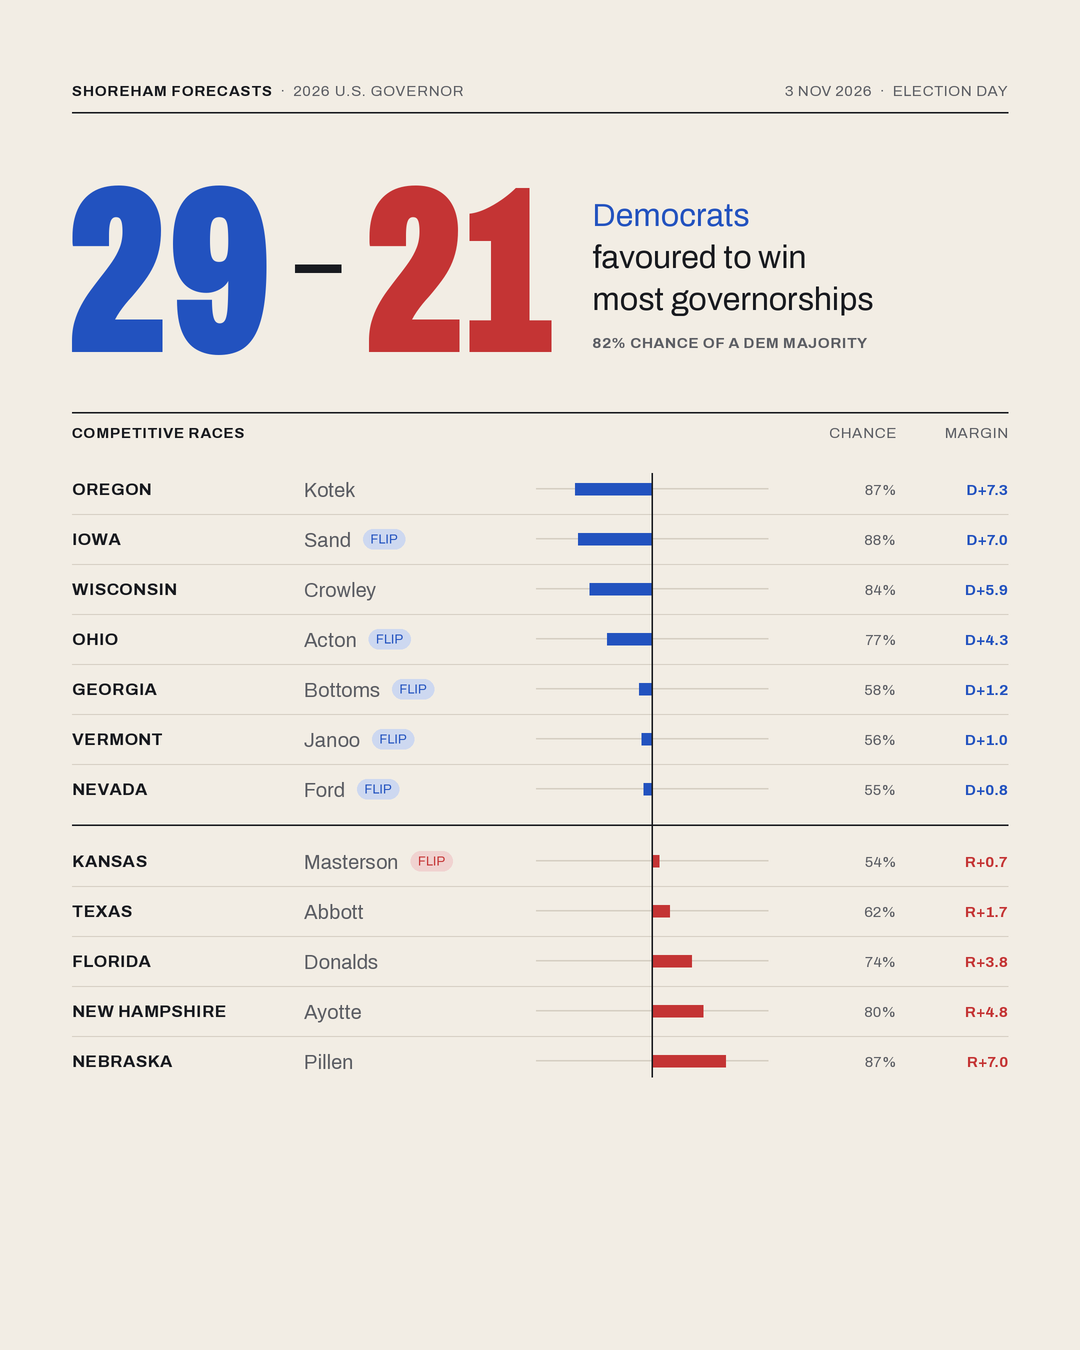
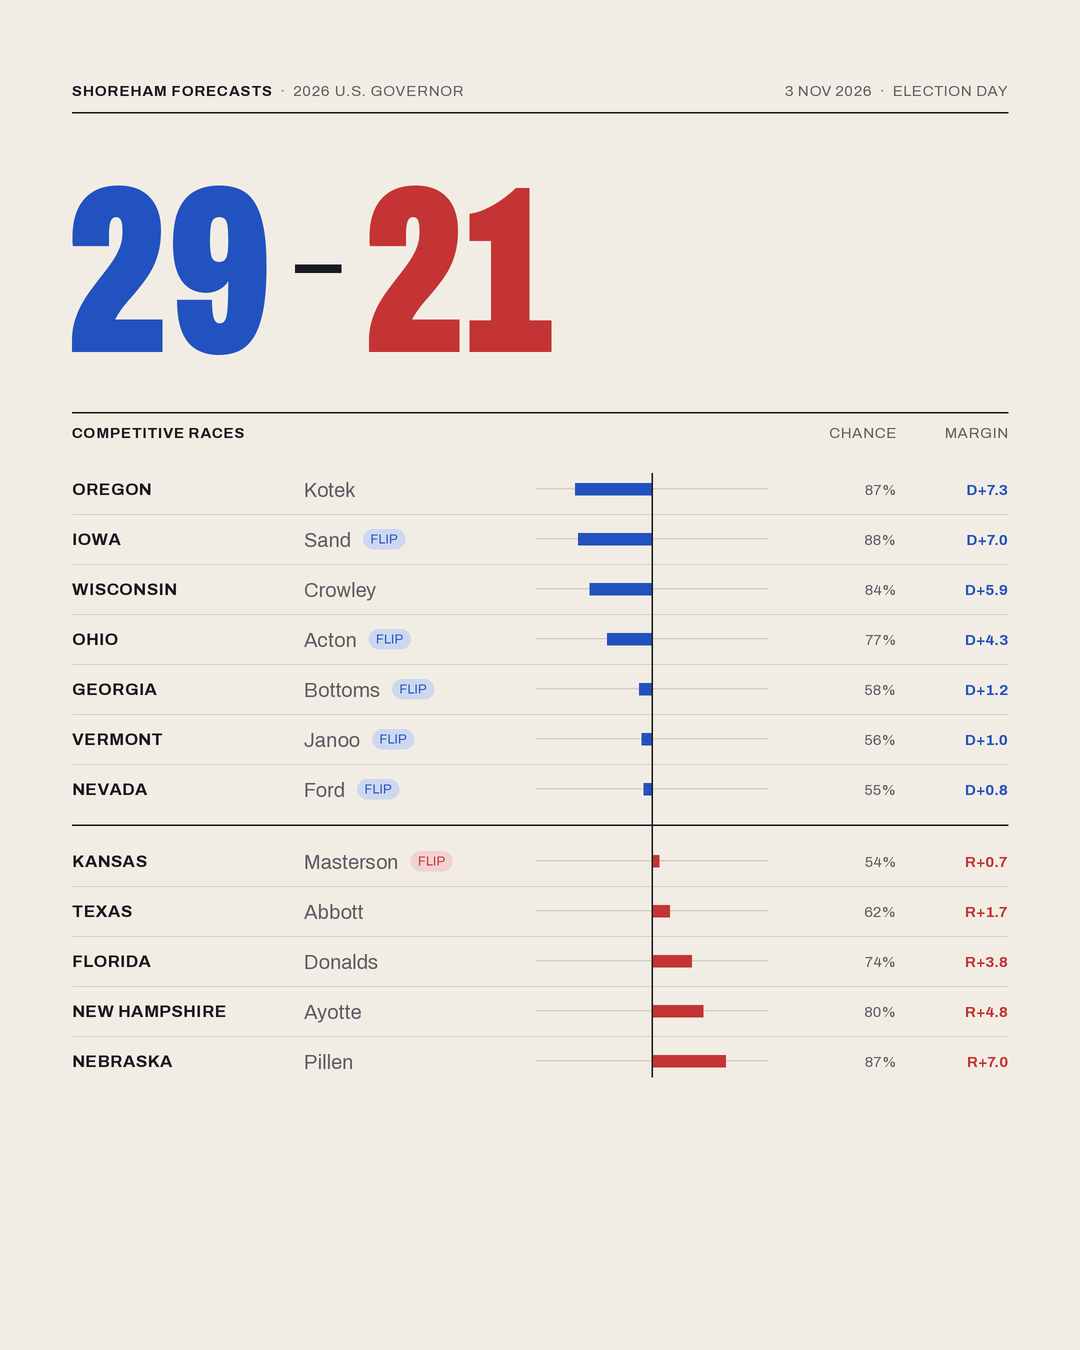
Governor graphics: headline numbers only, no 'favoured' / majority-chance block
Claude-Session: https://claude.ai/code/session_019JSxA7aqHuyNv185JZNLWE

Changed region(s): [[0.55, 0.1556, 0.825, 0.28]]

diff --git a/graphics/make_state_map.py b/graphics/make_state_map.py
@@ -83,9 +83,10 @@ def draw_map(title, ratings, dem, rep, words, control_line, label, filename, clo
     xr = dx + 28 + 14
     text(d, (xr, base), str(rep), numeral, RED, "ls")
     bx = xr + wr + 36
-    text(d, (bx, 190), words[0], serif_big, BLUE, "ls")
-    text(d, (bx, 230), words[1], serif_big, INK, "ls")
-    tracked(d, (bx, 262), control_line, mono_b, GRAPHITE, 1.4)
+    if words:   # None = headline numbers only (the governor map)
+        text(d, (bx, 190), words[0], serif_big, BLUE, "ls")
+        text(d, (bx, 230), words[1], serif_big, INK, "ls")
+        tracked(d, (bx, 262), control_line, mono_b, GRAPHITE, 1.4)
 
     # --- map, scaled to fit the width ---------------------------------------------------
     shapes = load_states()
@@ -160,8 +161,7 @@ def main():
     summary = list(csv.DictReader(open(os.path.join(ROOT, "governor_summary.csv"))))[-1]
     gdem = int(summary["called_dem"])
     draw_map("2026 U.S. GOVERNOR FORECAST", {s: r["rating"] for s, r in gov.items()}, gdem, 50 - gdem,
-             ("Democrats favoured", "for most governorships"),
-             f"{round(100 * float(summary['dem_majority_prob']))}% CHANCE OF A DEM MAJORITY",
+             None, None,
              date_label(date.fromisoformat(summary["date"])), "governor_map.png",
              closest(gov, lambda r: r["democrat"] if float(r["margin"]) > 0 else r["republican"]))
 

diff --git a/graphics/make_instagram.py b/graphics/make_instagram.py
@@ -199,10 +199,11 @@ def draw(RACES, DEM_SEATS, REP_SEATS, control_line, DATE_LABEL, title, prize, sp
     text(d, (x48, base), str(REP_SEATS), numeral, RED, "ls")
 
     right_block_x = x48 + w48 + 40
-    text(d, (right_block_x, 226), "Democrats", serif_big, BLUE, "ls")
-    text(d, (right_block_x, 268), "favoured to win", serif_big, INK, "ls")
-    text(d, (right_block_x, 310), prize, serif_big, INK, "ls")
-    tracked(d, (right_block_x, 348), control_line, mono_b, GRAPHITE, 1.6)
+    if prize:   # None = headline numbers only (the governor sheet)
+        text(d, (right_block_x, 226), "Democrats", serif_big, BLUE, "ls")
+        text(d, (right_block_x, 268), "favoured to win", serif_big, INK, "ls")
+        text(d, (right_block_x, 310), prize, serif_big, INK, "ls")
+        tracked(d, (right_block_x, 348), control_line, mono_b, GRAPHITE, 1.6)
 
     # --- race ledger -----------------------------------------------------------
     head_y = 412

diff --git a/graphics/make_governor.py b/graphics/make_governor.py
@@ -37,9 +37,8 @@ def load_governors():
 
 def main():
     races, dem, rep, majority, label = load_governors()
-    favoured = "Democrats" if dem >= 26 else "Republicans"
-    draw(races, dem, rep, f"{majority if dem >= 26 else 100 - majority}% CHANCE OF A {favoured[:3].upper()} MAJORITY",
-         label, "2026 U.S. GOVERNOR FORECAST", "most governorships", None, "governor_forecast.png")
+    draw(races, dem, rep, f"{majority}% CHANCE OF A DEM MAJORITY", label, "2026 U.S. GOVERNOR FORECAST",
+         None, None, "governor_forecast.png")   # headline numbers only, no "favoured" block
 
 
 if __name__ == "__main__":
